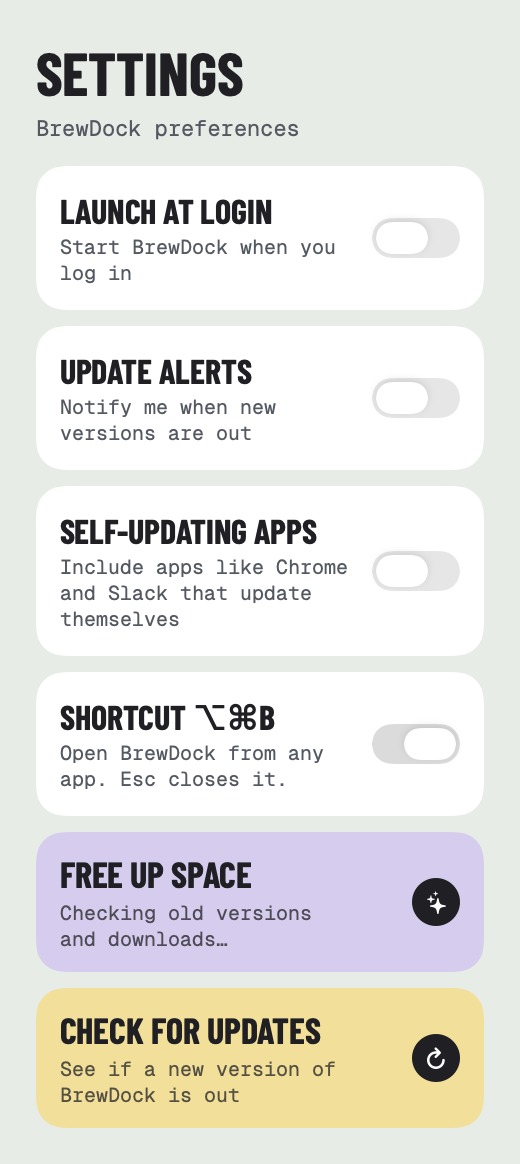
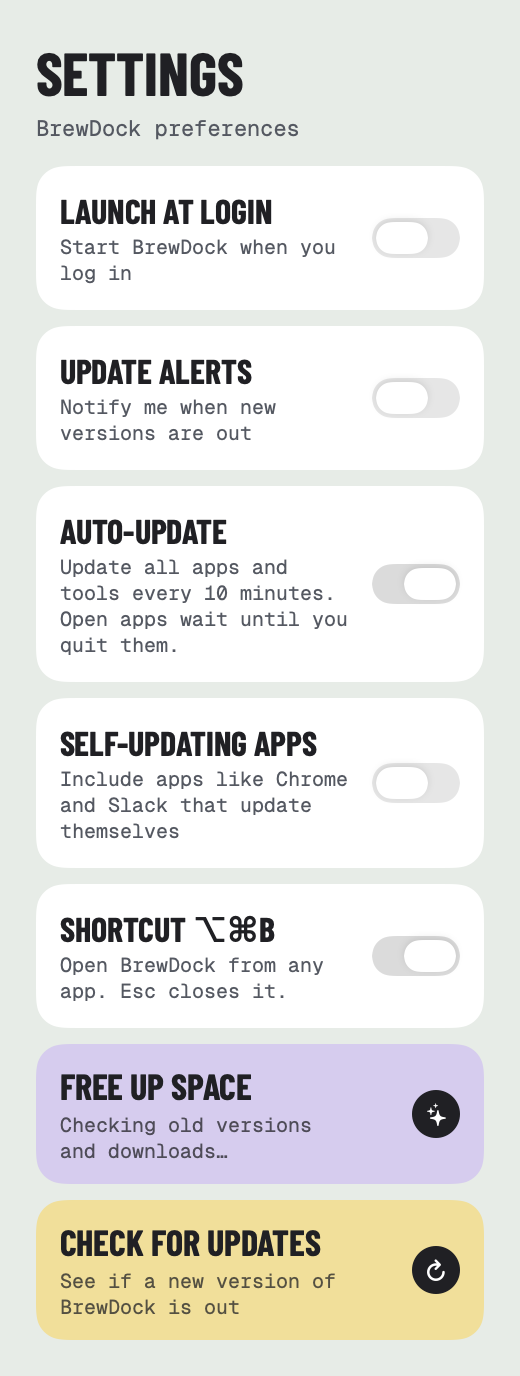
README: Settings screenshot with Auto-update

diff --git a/README.md b/README.md
@@ -96,7 +96,7 @@ BrewDock checks for new versions of itself. Open **Settings → Check for update
     <td align="center"><img src="docs/discover.png" alt="Discover tab: curated apps with install buttons" width="190"><br><sub><b>Discover</b></sub></td>
   </tr>
   <tr>
-    <td align="center"><img src="docs/settings.png" alt="Settings: launch at login, update alerts, self-updating apps, shortcut, free up space" width="150"><br><sub><b>Settings</b></sub></td>
+    <td align="center"><img src="docs/settings.png" alt="Settings: launch at login, update alerts, auto-update, self-updating apps, shortcut, free up space" width="150"><br><sub><b>Settings</b></sub></td>
     <td align="center"><img src="docs/brewfile.png" alt="Brewfile: export, install, what's missing, remove unlisted" width="150"><br><sub><b>Brewfile</b></sub></td>
     <td align="center"><img src="docs/screenshot-dark.png" alt="BrewDock in dark mode" width="190"><br><sub><b>Dark mode</b></sub></td>
   </tr>
